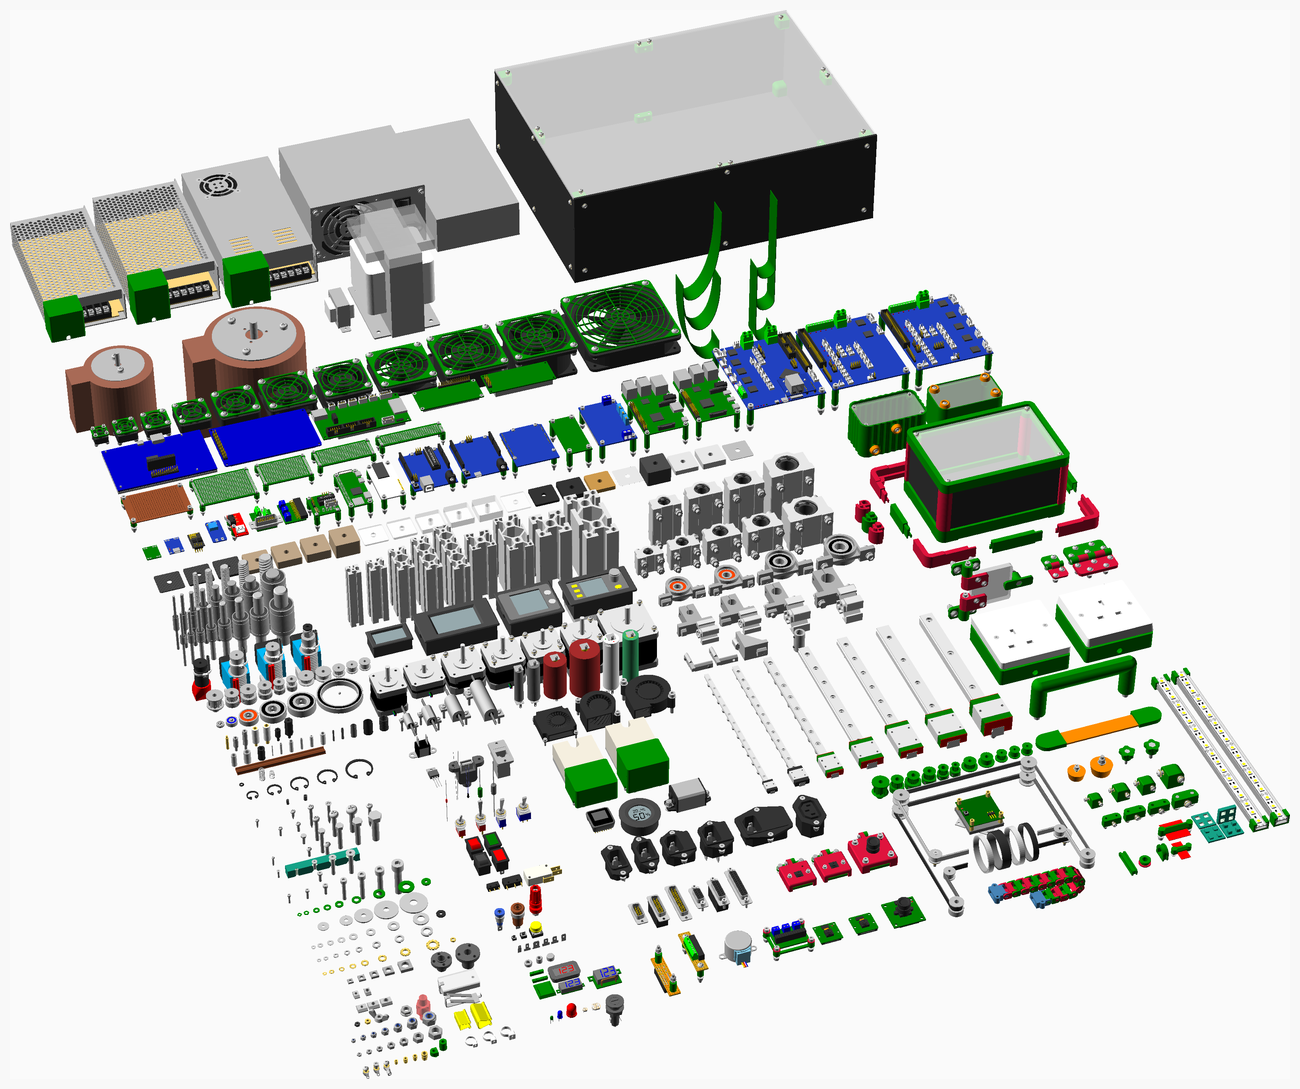
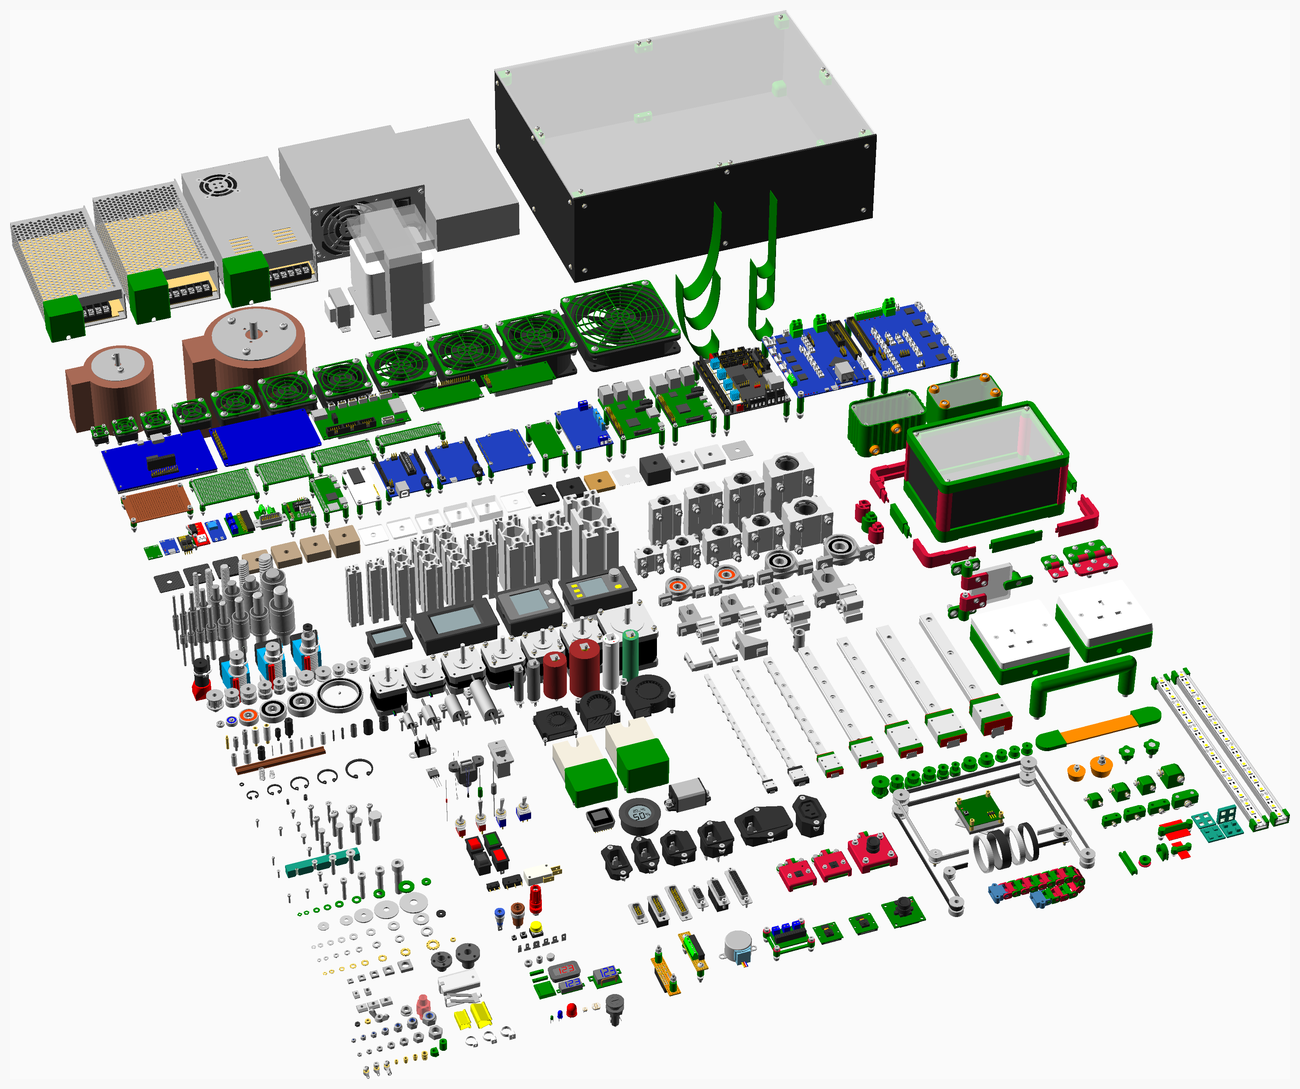
Updated readme and cover picture for BTT_SKR_V1_4_TURBO PCB. Added list of hidden pcbs to hide the boring ones. Smaller PCBs closer together to make space.

Changed region(s): [[0.1231, 0.2498, 0.7692, 0.5308], [0.5846, 0.843, 0.6154, 0.8742], [0.4923, 0.8742, 0.5231, 0.9054]]

diff --git a/readme.md b/readme.md
@@ -2305,10 +2305,11 @@ PCBs and perfboard with optional components. The shape can be a rectangle with o
 | ---:|:--- |:---|
 |   1 | `pcb(ArduinoLeonardo)` |  Arduino Leonardo |
 |   1 | `pcb(ArduinoUno3)` |  Arduino Uno R3 |
+|   1 | `pcb(BTT_SKR_V1_4_TURBO)` |  BigTreeTech SKR v1.4 Turbo |
 |   1 |  |  Cat 5 patch cable 300mm |
 |   1 | `d_plug(DCONN15, pcb = true)` |  D-type 15 way PCB mount plug |
 |   1 | `pcb(DuetE)` |  Duet 2 Ethernet electronics |
-|   1 | `pcb(Duex2)` |  Duex2 expansion board |
+|   1 | `pcb(Duex2)` |  Duex2 expansion board - not shown |
 |   1 | `pcb(Duex5)` |  Duex5 expansion board |
 |   1 | `pcb(ESP-01)` |  ESP-01 |
 |   1 | `pcb(EnviroPlus)` |  Enviro+ |
@@ -2316,13 +2317,15 @@ PCBs and perfboard with optional components. The shape can be a rectangle with o
 |   1 | `pcb(Keyes5p1)` |  Keyes5.1 Arduino Uno expansion board |
 |   1 | `pcb(MP1584EN)` |  MP1584EN 3A buck converter |
 |   1 | `pcb(MT3608)` |  MT3608 boost converter module |
+|   1 | `pcb(Melzi)` |  Melzi electronics - not shown |
 |   4 |  |  Micro SD card |
+|   1 |  |  Micro SD card - not shown |
 |   1 | `molex_254(2)` |  Molex KK header 2 way |
 |   1 | `molex_254(3)` |  Molex KK header 3 way |
 |  16 | `nut(M2_nut, nyloc = true)` |  Nut M2 x 1.6mm nyloc |
 |  34 | `nut(M2p5_nut, nyloc = true)` |  Nut M2.5 x 2.2mm nyloc |
-|  12 | `nut(M3_nut, nyloc = true)` |  Nut M3 x 2.4mm nyloc |
-|  12 | `nut(M4_nut, nyloc = true)` |  Nut M4 x 3.2mm nyloc |
+|  16 | `nut(M3_nut, nyloc = true)` |  Nut M3 x 2.4mm nyloc |
+|   8 | `nut(M4_nut, nyloc = true)` |  Nut M4 x 3.2mm nyloc |
 |   1 | `pcb(PI_IO)` |  PI_IO V2 |
 |   1 | `pcb(PSU12V1A)` |  PSU 12V 1A |
 |   1 | `pcb(PERF60x40)` |  Perfboard 60 x 40mm |
@@ -2344,15 +2347,17 @@ PCBs and perfboard with optional components. The shape can be a rectangle with o
 |   4 | `screw(M2p5_pan_screw, 30)` |  Screw M2.5 pan x 30mm |
 |   4 | `screw(M3_cap_screw, 16)` |  Screw M3 cap x 16mm |
 |   8 | `screw(M3_cap_screw, 30)` |  Screw M3 cap x 30mm |
-|  12 | `screw(M4_cap_screw, 35)` |  Screw M4 cap x 35mm |
+|   4 | `screw(M3_cap_screw, 35)` |  Screw M3 cap x 35mm |
+|   8 | `screw(M4_cap_screw, 35)` |  Screw M4 cap x 35mm |
 |   1 | `pcb(TP4056)` |  TP4056 Li-lon Battery charger module |
 |   3 | `terminal_35(2)` |  Terminal block 2 way 3.5mm |
 |   2 | `green_terminal(gt_2p54, 4)` |  Terminal block 4 way 0.1" |
+|   1 |  |  USB A to Mini B lead - not shown |
 |   1 | `pcb(WD2002SJ)` |  WD2002SJ Buck Boost DC-DC converter |
 |  16 | `washer(M2_washer)` |  Washer  M2 x 5mm x 0.3mm |
 |  34 | `washer(M2p5_washer)` |  Washer  M2.5 x 5.9mm x 0.5mm |
-|  12 | `washer(M3_washer)` |  Washer  M3 x 7mm x 0.5mm |
-|  12 | `washer(M4_washer)` |  Washer  M4 x 9mm x 0.8mm |
+|  16 | `washer(M3_washer)` |  Washer  M3 x 7mm x 0.5mm |
+|   8 | `washer(M4_washer)` |  Washer  M4 x 9mm x 0.8mm |
 |   1 | `pcb(ZC_A0591)` |  ZC-A0591 ULN2003 driver PCB |
 
 ### Printed
@@ -2370,11 +2375,11 @@ PCBs and perfboard with optional components. The shape can be a rectangle with o
 |   4 | pcb_spacer25170_2.stl |
 |   4 | pcb_spacer25200.stl |
 |   4 | pcb_spacer25210.stl |
-|   2 | pcb_spacer2590.stl |
+|   2 | pcb_spacer2580.stl |
 |   4 | pcb_spacer30180.stl |
 |   4 | pcb_spacer30190.stl |
+|   4 | pcb_spacer30220.stl |
 |   4 | pcb_spacer3050.stl |
-|   4 | pcb_spacer40220.stl |
 |   4 | pcb_spacer40230.stl |
 |   4 | pcb_spacer40240.stl |
 
